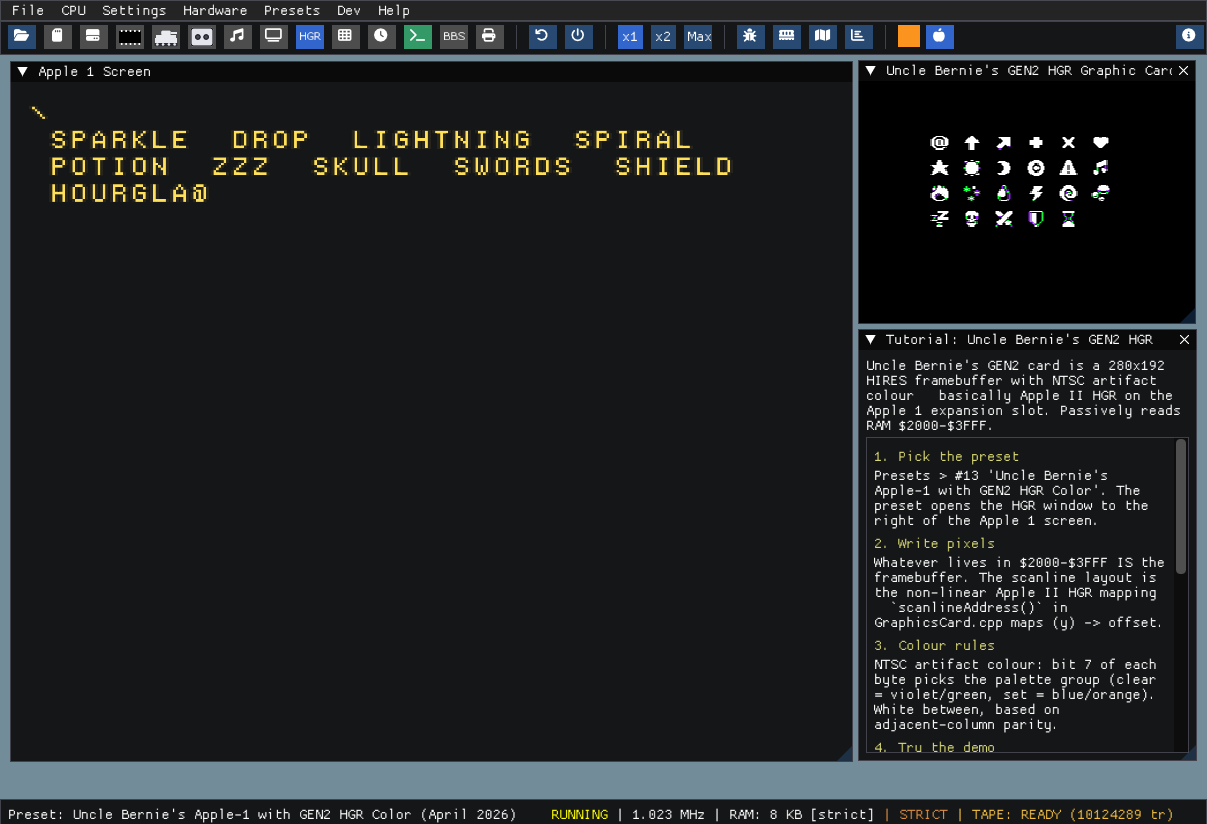
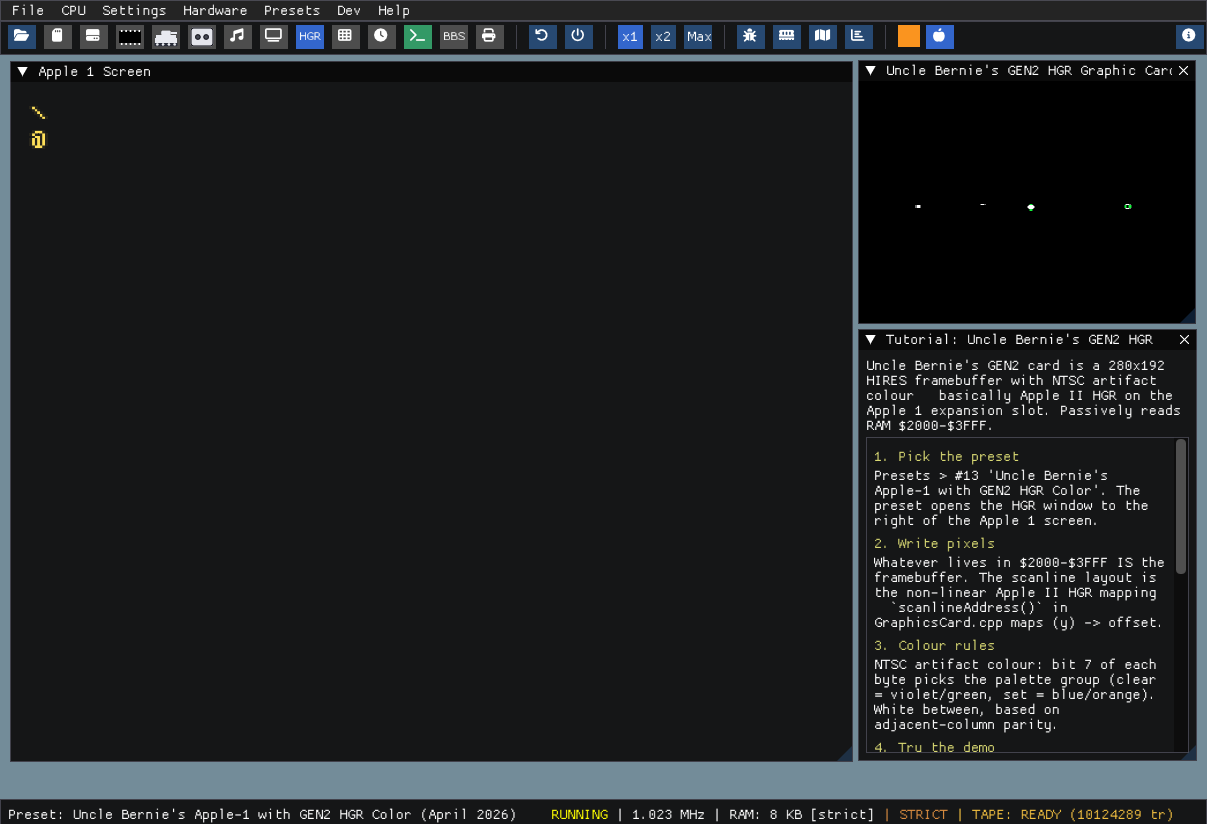
Update HGR10_Life to load at $E000 and adjust memory footprint
- Changed the loading address of `HGR10_Life.asm` from `$0280` to `$E000` to accommodate the new memory layout.
- Updated memory footprint documentation to reflect the new grid locations and code placement.
- Modified README and comments to instruct users to type `E000R` in Woz Monitor instead of `280R` for loading the program.
- Ensured consistency across related files regarding the new loading address.

diff --git a/dev/projects/hgr10_life/README.md b/dev/projects/hgr10_life/README.md
@@ -13,7 +13,7 @@ pattern, ESC to exit. Tenth entry in the HGR demo series.
 
 ## Sources
 
-- `HGR10_Life.asm` — main entry, loads at `$0280`
+- `HGR10_Life.asm` — main entry, loads at `$E000`
 - `emit_HGR10_Life_txt.py` — assemble + emit Woz hex `.txt`
 - libs used: `dev/lib/apple1/`, `dev/lib/hgr/`
 
@@ -32,7 +32,7 @@ By hand:
 
 1. POM1 → Presets → GEN2 HGR preset (TODO).
 2. File → Load → `software/hgr/HGR10_Life.txt`.
-3. Wozmon `\` prompt: type `280R`.
+3. Wozmon `\` prompt: type `E000R`.
 
 ## Author / License
 

diff --git a/dev/projects/hgr2_sierpinski/README.md b/dev/projects/hgr2_sierpinski/README.md
@@ -12,7 +12,7 @@ classic `(x AND y) == 0` rule. Second entry in the HGR demo series.
 
 ## Sources
 
-- `HGR2_Sierpinski.asm` — main entry, loads at `$0280`
+- `HGR2_Sierpinski.asm` — main entry, loads at `$E000`
 - libs used: `dev/lib/apple1/`, `dev/lib/hgr/` (`hgr_tables.inc`)
 
 ## Build
@@ -29,7 +29,7 @@ By hand:
 
 1. POM1 → Presets → GEN2 HGR preset (TODO).
 2. File → Load → `software/hgr/HGR2_Sierpinski.bin`.
-3. Wozmon `\` prompt: type `280R`.
+3. Wozmon `\` prompt: type `E000R`.
 
 ## Author / License
 

diff --git a/dev/projects/hgr3_testcard/README.md b/dev/projects/hgr3_testcard/README.md
@@ -13,7 +13,7 @@ the HGR demo series.
 
 ## Sources
 
-- `HGR3_TestCard.asm` — main entry, loads at `$0280`
+- `HGR3_TestCard.asm` — main entry, loads at `$E000`
 - libs used: `dev/lib/apple1/`, `dev/lib/hgr/`
 
 ## Build
@@ -30,7 +30,7 @@ By hand:
 
 1. POM1 → Presets → GEN2 HGR preset (TODO).
 2. File → Load → `software/hgr/HGR3_TestCard.bin`.
-3. Wozmon `\` prompt: type `280R`.
+3. Wozmon `\` prompt: type `E000R`.
 
 ## Author / License
 

diff --git a/dev/projects/hgr4_mandelbrot/README.md b/dev/projects/hgr4_mandelbrot/README.md
@@ -13,7 +13,7 @@ HGR demo series.
 
 ## Sources
 
-- `HGR4_Mandelbrot.asm` — main entry, loads at `$0280`
+- `HGR4_Mandelbrot.asm` — main entry, loads at `$E000`
 - `emit_HGR4_Mandelbrot_txt.py` — assemble + emit Woz hex `.txt`
 - libs used: `dev/lib/apple1/`, `dev/lib/hgr/`
 
@@ -32,7 +32,7 @@ By hand:
 
 1. POM1 → Presets → GEN2 HGR preset (TODO).
 2. File → Load → `software/hgr/HGR4_Mandelbrot.txt`.
-3. Wozmon `\` prompt: type `280R`.
+3. Wozmon `\` prompt: type `E000R`.
 
 ## Author / License
 

diff --git a/dev/projects/hgr5_house/README.md b/dev/projects/hgr5_house/README.md
@@ -12,7 +12,7 @@ entry in the HGR demo series.
 
 ## Sources
 
-- `HGR5_House.asm` — main entry, loads at `$0280`
+- `HGR5_House.asm` — main entry, loads at `$E000`
 - libs used: `dev/lib/apple1/`, `dev/lib/hgr/`
 
 ## Build
@@ -29,7 +29,7 @@ By hand:
 
 1. POM1 → Presets → GEN2 HGR preset (TODO).
 2. File → Load → `software/hgr/HGR5_House.bin`.
-3. Wozmon `\` prompt: type `280R`.
+3. Wozmon `\` prompt: type `E000R`.
 
 ## Author / License
 

diff --git a/dev/projects/hgr7_connect4/README.md b/dev/projects/hgr7_connect4/README.md
@@ -11,7 +11,7 @@ Card. Seventh entry in the HGR demo series.
 
 ## Sources
 
-- `HGR7_Connect4.asm` — main entry, loads at `$0280`
+- `HGR7_Connect4.asm` — main entry, loads at `$E000`
 - libs used: `dev/lib/apple1/`, `dev/lib/hgr/`
 
 ## Build
@@ -28,7 +28,7 @@ By hand:
 
 1. POM1 → Presets → GEN2 HGR preset (TODO).
 2. File → Load → `software/hgr/HGR7_Connect4.bin`.
-3. Wozmon `\` prompt: type `280R`.
+3. Wozmon `\` prompt: type `E000R`.
 
 ## Author / License
 

diff --git a/dev/projects/hgr8_bbfont_show/README.md b/dev/projects/hgr8_bbfont_show/README.md
@@ -13,7 +13,7 @@ non-Wozmon characters. Eighth entry in the HGR demo series.
 
 ## Sources
 
-- `HGR8_BBFontShow.asm` — main entry, loads at `$0280`
+- `HGR8_BBFontShow.asm` — main entry, loads at `$E000`
 - `HGR8_BBFont.inc` — local CP437 8×8 font data
 - libs used: `dev/lib/apple1/`, `dev/lib/hgr/`
 
@@ -31,7 +31,7 @@ By hand:
 
 1. POM1 → Presets → GEN2 HGR preset (TODO).
 2. File → Load → `software/hgr/HGR8_BBFontShow.bin`.
-3. Wozmon `\` prompt: type `280R`.
+3. Wozmon `\` prompt: type `E000R`.
 
 ## Author / License
 

diff --git a/dev/projects/hgr9_smiley16/README.md b/dev/projects/hgr9_smiley16/README.md
@@ -15,7 +15,7 @@ Ninth entry in the HGR demo series.
 
 ## Sources
 
-- `HGR9_Smiley16Show.asm` — main entry, loads at `$0280`
+- `HGR9_Smiley16Show.asm` — main entry, loads at `$E000`
 - `_gen_smiley16.py` — regenerates `dev/lib/hgr/smiley.inc` from the
   AVIF emoji sheet (no toolchain prerequisites; only run when the art
   changes)
@@ -37,7 +37,7 @@ By hand:
 
 1. POM1 → Presets → GEN2 HGR preset (TODO).
 2. File → Load → `software/hgr/HGR9_Smiley16Show.txt`.
-3. Wozmon `\` prompt: type `280R`.
+3. Wozmon `\` prompt: type `E000R`.
 
 ## Author / License
 

diff --git a/dev/projects/hgr_maze/README.md b/dev/projects/hgr_maze/README.md
@@ -13,7 +13,7 @@ fringing on cell borders).
 
 ## Sources
 
-- `HGR_Maze.asm` — main entry, loads at `$0280`
+- `HGR_Maze.asm` — main entry, loads at `$E000`
 - libs used: `dev/lib/apple1/`
 
 ## Build
@@ -30,7 +30,7 @@ By hand:
 
 1. POM1 → Presets → GEN2 HGR preset (TODO).
 2. File → Load → `software/hgr/HGR_Maze.bin`.
-3. Wozmon `\` prompt: type `280R`.
+3. Wozmon `\` prompt: type `E000R`.
 
 ## Author / License
 

diff --git a/dev/projects/hgr_orbital_pool/README.md b/dev/projects/hgr_orbital_pool/README.md
@@ -27,7 +27,7 @@ re-validate the other.
 
 ## Sources
 
-- `HGR_OrbitalPool.asm` — main entry, loads at `$0280`
+- `HGR_OrbitalPool.asm` — main entry, loads at `$E000`
 - `emit_HGR_OrbitalPool_txt.py` — assemble + emit Woz hex `.txt`
 - libs used: `dev/lib/apple1/`
 
@@ -46,7 +46,7 @@ By hand:
 
 1. POM1 → Presets → GEN2 HGR preset (TODO).
 2. File → Load → `software/hgr/HGR_OrbitalPool.txt`.
-3. Wozmon `\` prompt: type `280R`.
+3. Wozmon `\` prompt: type `E000R`.
 
 ## Author / License
 